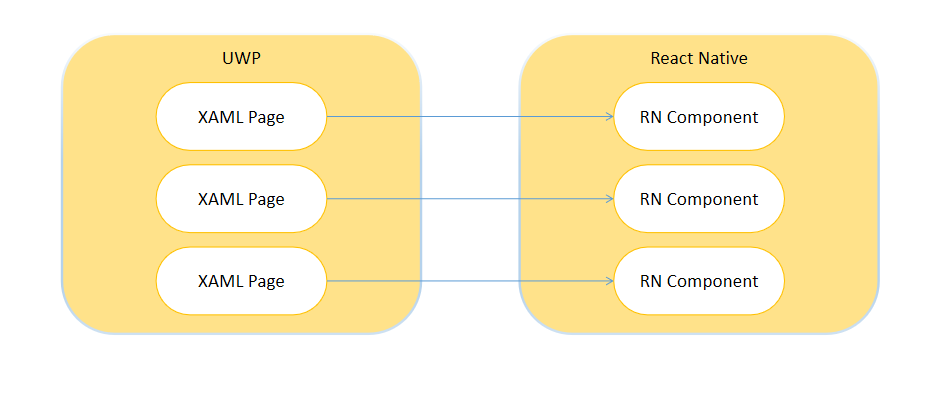
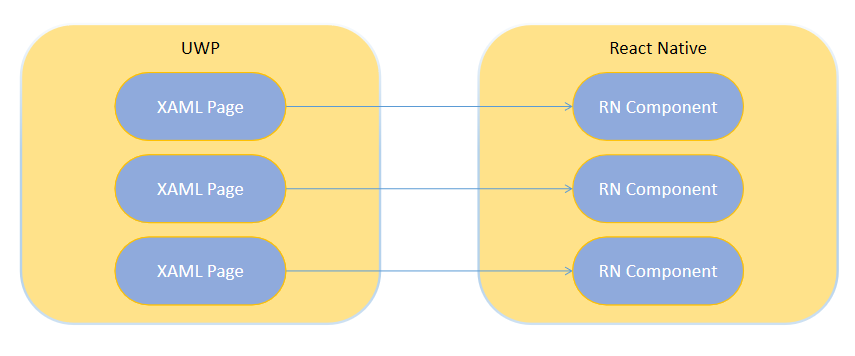
Use transparent diagrams for better Dark/Light theme experience

diff --git a/README.md b/README.md
@@ -35,7 +35,7 @@ This will start all the required tools and launch your app
 The following application is the combination of skills and features of React Native and UWP development.
 
 There are two main layers of the application:
-![](./Resources/GeneralArchitectureDiagram.PNG)
+![](./Resources/GeneralArchitectureDiagramTransparent.PNG)
 
 The first is the UWP layer contains all the XAML Pages of the application.
 Those Pages can be navigated between using the [`NavigationView`](https://docs.microsoft.com/en-us/uwp/api/windows.ui.xaml.controls.navigationview?view=winrt-20348).
@@ -44,7 +44,7 @@ Each Page can host exactly one separate `Component` implemented on the React Nat
 These components acts as a View for the application.
 
 So in more details, the architecture looks like:
-![](./Resources/DetailedDiagram.png)
+![](./Resources/DetailedDiagramTransparent.png)
 
 So comparing to original React Native Windows where whole application starts from an `index.js` and `App.js`, this solution makes the UWP being a root hosting not an `index.js`, but many `Components`.
 
